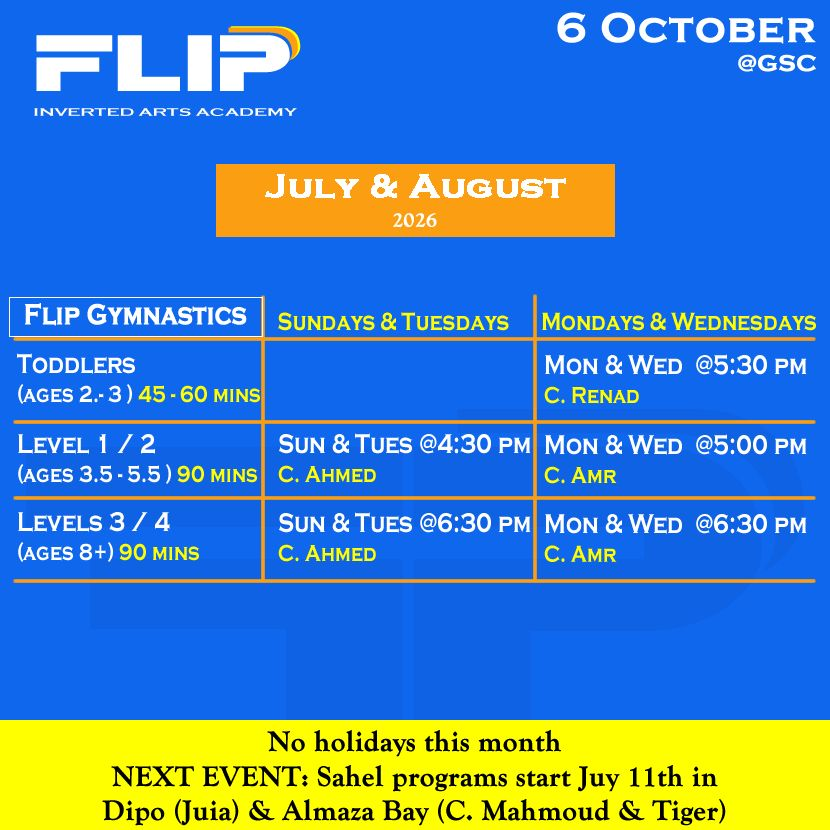
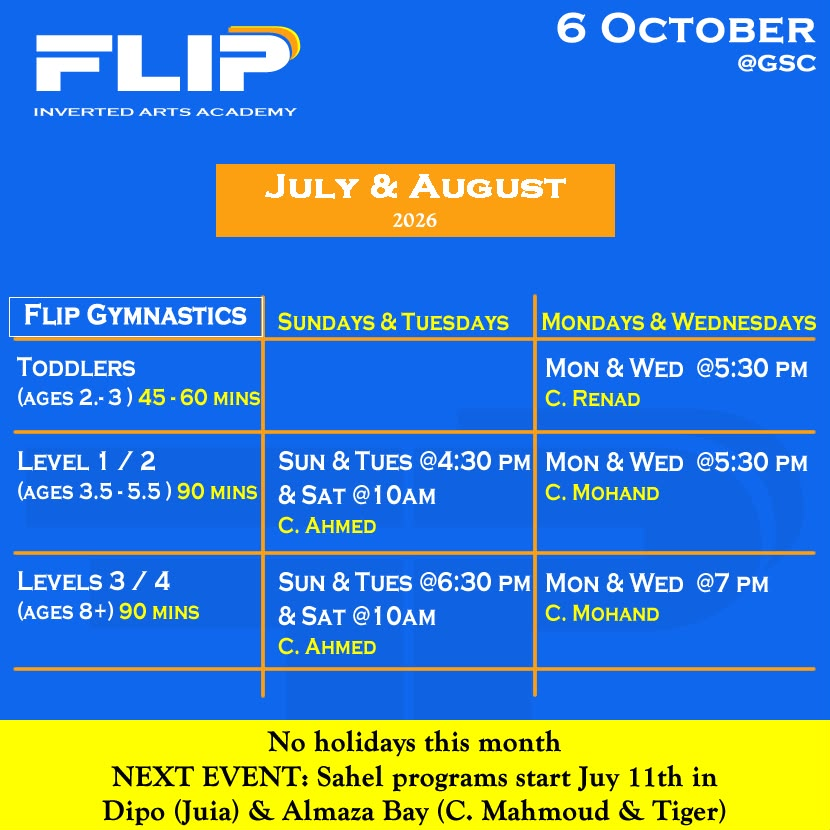
feat: add sahel compound and last day fields to schedule registration form; update translations and .gitignore

Changed region(s): [[0.0, 0.4217, 0.994, 0.8434]]

diff --git a/server/server.js b/server/server.js
@@ -302,6 +302,8 @@ app.post("/api/register-schedule", formLimiter, async (req, res) => {
     parentPhone,
     whatsappPhone,
     geziraMembership,
+    sahelCompound,
+    sahelLastDay,
     childName,
     childSchool,
     emergencyName,
@@ -328,8 +330,8 @@ app.post("/api/register-schedule", formLimiter, async (req, res) => {
   });
 
   const csvHeaders =
-    "LOCATION,C NAME,,,P NAME,PHONE,WHATSAPP,EM CONTACT NAME,EC PHONE,C DOB,,MAIL,MEMBERSHIP,DATE,MESSAGE,,,,C SCHOOL";
-  const csvValues = `"${locationName || ""}","${childName}","","","${parentName}","'${parentPhone}","'${finalWhatsapp}","${emergencyName}","'${emergencyPhone}","${childDOB}","","${parentEmail}","${geziraMembership || ""}","${submitDate}","${(message || "").replace(/"/g, '""')}","","","","${childSchool}"`;
+    "LOCATION,C NAME,,,P NAME,PHONE,WHATSAPP,EM CONTACT NAME,EC PHONE,C DOB,,MAIL,MEMBERSHIP,DATE,MESSAGE,,,,C SCHOOL,SAHEL COMPOUND,SAHEL LAST DAY";
+  const csvValues = `"${locationName || ""}","${childName}","","","${parentName}","'${parentPhone}","'${finalWhatsapp}","${emergencyName}","'${emergencyPhone}","${childDOB}","","${parentEmail}","${geziraMembership || ""}","${submitDate}","${(message || "").replace(/"/g, '""')}","","","","${childSchool}","${sahelCompound || ""}","${sahelLastDay || ""}"`;
   const csvContent = `${csvHeaders}\n${csvValues}`;
 
   const html = `
@@ -350,7 +352,9 @@ app.post("/api/register-schedule", formLimiter, async (req, res) => {
                 <p><strong>Phone:</strong> ${parentPhone}</p>
                 <p><strong>WhatsApp:</strong> ${finalWhatsapp}</p>
                 ${geziraMembership ? `<p><strong>Gezira Membership #:</strong> ${geziraMembership}</p>` : ""}
-                
+                ${sahelCompound ? `<p><strong>Compound in Sahel:</strong> ${sahelCompound}</p>` : ""}
+                ${sahelLastDay ? `<p><strong>Last day in Sahel:</strong> ${sahelLastDay}</p>` : ""}
+
                 <h3 style="color: #2c3e50; border-bottom: 2px solid #f6831fff; padding-bottom: 5px; margin-top: 25px;">👶 Child Information</h3>
                 <p><strong>Name:</strong> ${childName}</p>
                 <p><strong>Date of Birth:</strong> ${childDOB}</p>
@@ -394,7 +398,7 @@ app.post("/api/register-schedule", formLimiter, async (req, res) => {
     ),
   ]);
 
-  // Columns: ['LOCATION', 'C NAME', '', '', 'P NAME', 'PHONE', 'WHATSAPP', 'EM CONTACT NAME', 'EC PHONE', 'C DOB', '', 'MAIL', 'MEMBERSHIP', 'DATE', 'MESSAGE', '', '', '', 'C SCHOOL']
+  // Columns: ['LOCATION', 'C NAME', '', '', 'P NAME', 'PHONE', 'WHATSAPP', 'EM CONTACT NAME', 'EC PHONE', 'C DOB', '', 'MAIL', 'MEMBERSHIP', 'DATE', 'MESSAGE', '', '', '', 'C SCHOOL', 'SAHEL COMPOUND', 'SAHEL LAST DAY']
   /*
   const sheetResult = await appendToSheet("SCHEDULE", [
     locationName || "",
@@ -416,6 +420,8 @@ app.post("/api/register-schedule", formLimiter, async (req, res) => {
     "",
     "",
     childSchool,
+    sahelCompound || "",
+    sahelLastDay || "",
   ]);
 
   // Append empty row for spacing

diff --git a/src/pages/forms/ScheduleRegistrationPage.jsx b/src/pages/forms/ScheduleRegistrationPage.jsx
@@ -32,6 +32,7 @@ export default function ScheduleRegistrationPage() {
   const [isCaptchaValid, setIsCaptchaValid] = useState(false);
   const [isAdult, setIsAdult] = useState(false);
   const [dobError, setDobError] = useState(false);
+  const [sahelLastDayError, setSahelLastDayError] = useState(false);
   const [isWhatsappSame, setIsWhatsappSame] = useState(false);
   const [snackbar, setSnackbar] = useState({
     open: false,
@@ -325,6 +326,54 @@ export default function ScheduleRegistrationPage() {
                 fullWidth
                 required
               />
+
+              {(locationName.toLowerCase().includes("almaza") ||
+                locationName.toLowerCase().includes("diplo")) && (
+                <>
+                  <TextField
+                    name="sahelCompound"
+                    label={t("forms.labels.sahel-compound")}
+                    variant="outlined"
+                    fullWidth
+                    required
+                  />
+                  <TextField
+                    name="sahelLastDay"
+                    label={t("forms.labels.sahel-last-day")}
+                    variant="outlined"
+                    fullWidth
+                    required
+                    placeholder={t("forms.placeholders.dob")}
+                    helperText={
+                      sahelLastDayError
+                        ? "Invalid Date (DD/MM/YYYY)"
+                        : "e.g. 25/12/2015"
+                    }
+                    error={sahelLastDayError}
+                    inputProps={{ inputMode: "numeric" }}
+                    onBlur={(e) => {
+                      const val = e.target.value;
+                      if (!val) {
+                        setSahelLastDayError(false);
+                        return;
+                      }
+                      const regex =
+                        /^(0[1-9]|[12][0-9]|3[01])\/(0[1-9]|1[012])\/(19|20)\d\d$/;
+                      setSahelLastDayError(!regex.test(val));
+                    }}
+                    onChange={(e) => {
+                      setSahelLastDayError(false);
+                      let value = e.target.value.replace(/\D/g, "");
+                      if (value.length > 2)
+                        value = value.slice(0, 2) + "/" + value.slice(2);
+                      if (value.length > 5)
+                        value = value.slice(0, 5) + "/" + value.slice(5);
+                      if (value.length > 10) value = value.slice(0, 10);
+                      e.target.value = value;
+                    }}
+                  />
+                </>
+              )}
 
               {/* Emergency Contact */}
               <Typography
